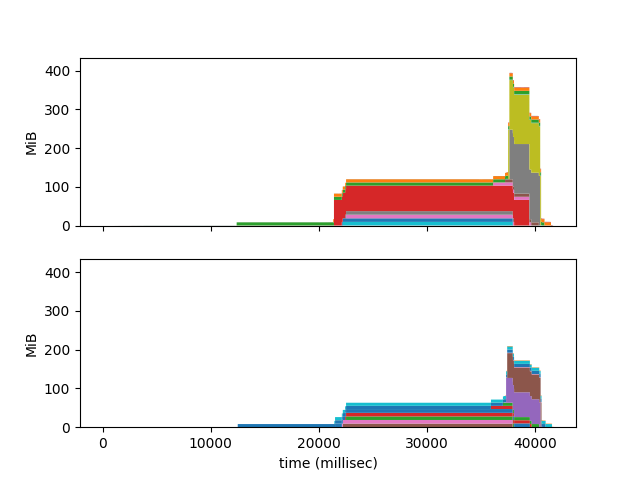
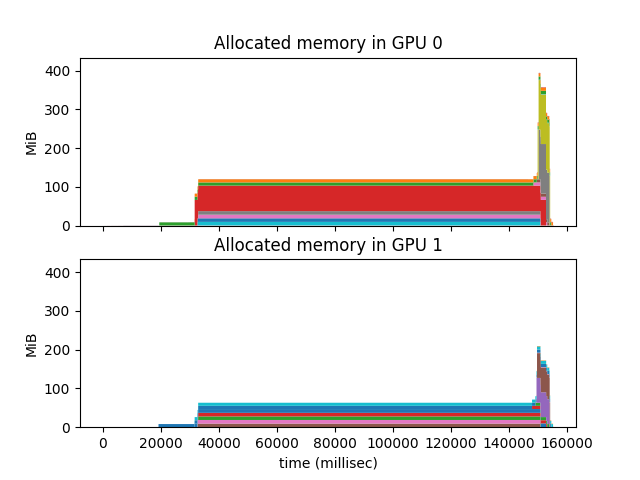
title of plots

diff --git a/tools/gpu_memory_usage/plot.py b/tools/gpu_memory_usage/plot.py
@@ -53,6 +53,7 @@ def plot_memory_usage_nvml(device_set, entries, filename):
         max_usage = max(max_usage, max(y))
         ax.plot(x, y)
         ax.set_ylabel('MiB')
+        ax.set_title('Memory usage in GPU {}'.format(device))
         ax.text(0.95, 0.01, 'Peak Usage: {} MiB'.format(max(y)),
                 verticalalignment='bottom', horizontalalignment='right',
                 transform=ax.transAxes, color='green', fontsize=8)
@@ -130,6 +131,7 @@ def plot_allocated_memory(allocations, end, devices, filename):
         max_stacked = max(max_stacked, max(sum(stacked)))
         ax.stackplot(list(range(end)), stacked)
         ax.set_ylabel('MiB')
+        ax.set_title('Allocated memory in GPU {}'.format(device))
     # All the subplots share the x axis. Add label to last one only.
     all_plots[-1].set_xlabel('time (millisec)')
     for ax in all_plots:
@@ -145,7 +147,7 @@ def read_user_options():
                         help='List of .prof files.')
     parser.add_argument('--allocation-output',
                         type=str,
-                        default="allocated_memory.png",
+                        default="allocated_memory",
                         help="File to save plot with allocated memory info.")
     parser.add_argument('--memory-usage-file',
                         type=str,
@@ -153,7 +155,7 @@ def read_user_options():
                         help='.txt file with memory usage info.')
     parser.add_argument('--usage-output',
                         type=str,
-                        default="memory_usage.png",
+                        default="memory_usage",
                         help="File to save plot with memory usage info.")
 
     args = parser.parse_args()
